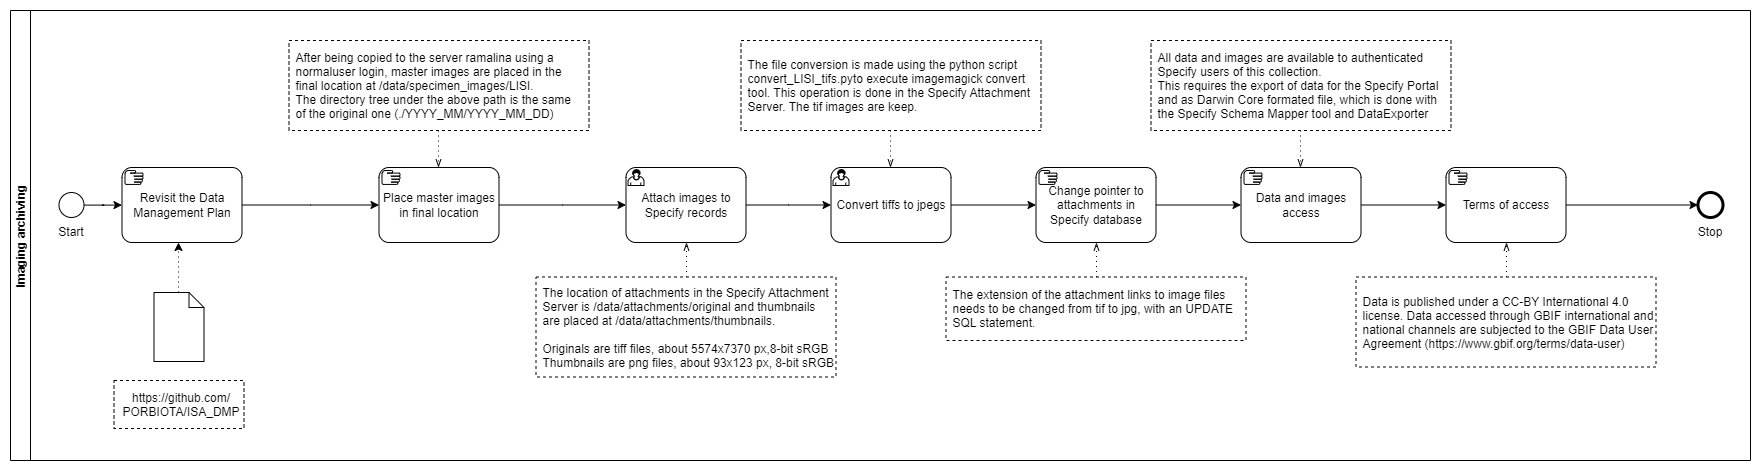
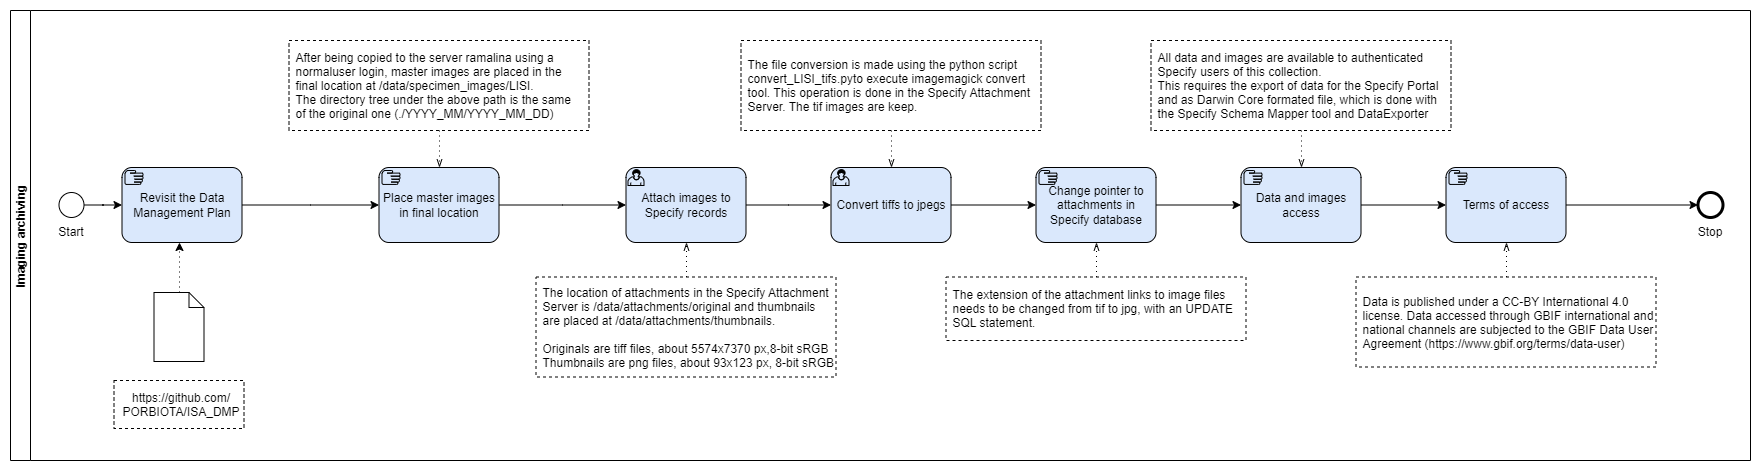
Update LISI workflow images

diff --git a/HerbariumSheets/LISIULisboa.md b/HerbariumSheets/LISIULisboa.md
@@ -36,46 +36,44 @@ The presented diagrams is composed of six steps:
 
 The detailed description of the workflow is available [here](https://github.com/PORBIOTA/ISA_DMP/blob/main/LISI_DigitizationWorkflow.pdf).
 
-[TODO]
-Add image overview of the Digitisation workflow
 
 **Pre-Digitization Curation**
 
 The ‘Pre-digitization Curation’ step involves tasks that occur prior to databasing or imaging, such as checking the cleaning and maintenance state of the material; placing the specimen Data Matrix barcodes; and transporting the specimens to the digitization station.
 
-![Pre-Digitization Curation workflow](/images/HerbariumSheets/LISI/LISI_Pre-digitization_curation_tasks.png?raw=true)
+[![Pre-Digitization Curation workflow](/images/HerbariumSheets/LISI/LISI_Pre-digitization_curation_tasks.png?raw=true)](/images/HerbariumSheets/LISI/LISI_Pre-digitization_curation_tasks.png?raw=true)
 
 **Digital Imaging Preparation**
 
 The Digital Imaging preparation is part of the ‘Digital Image Workflow’ and involves tasks destined to initiate and set up the imaging station, preparing it for sequential imaging of herbarium flat sheets.
 
-![Digital Imaging Preparation](/images/HerbariumSheets/LISI/LISI_Digital_imaging_tasks.png?raw=true)
+[![Digital Imaging Preparation](/images/HerbariumSheets/LISI/LISI_Digital_imaging_tasks.png?raw=true)](/images/HerbariumSheets/LISI/LISI_Digital_imaging_tasks.png?raw=true)
 
 
 **Imaging Capture**
 
 The ‘Image Capture workflow’ is subsequent to ‘Digital Imaging preparation’ workflow and is an ordered set of steps through which a specimen sheet is removed from an enclosing folder, imaged, returned to the original folder for refiling, and the resulting image examined for targeted quality. Specimens should also be checked for damage before and after imaging.
 
-![Imaging Capture](/images/HerbariumSheets/LISI/LISI_Imaging_capture_tasks.png?raw=true)
+[![Imaging Capture](/images/HerbariumSheets/LISI/LISI_Imaging_capture_tasks.png?raw=true)](/images/HerbariumSheets/LISI/LISI_Imaging_capture_tasks.png?raw=true)
 
 
 **Imaging Processing**
 
 The Image Processing step involves completing image metadata with additional information not included at the capture and copying image files to a file server.
 
-![Imaging Processing](/images/HerbariumSheets/LISI/LISI_Imaging_processing_tasks.png?raw=true)
+[![Imaging Processing](/images/HerbariumSheets/LISI/LISI_Imaging_processing_tasks.png?raw=true)](/images/HerbariumSheets/LISI/LISI_Imaging_processing_tasks.png?raw=true)
 
 **Imaging Archiving**
 
 The Imaging Archiving steps serve to place files in the final archiving location, and to include them to the collection management system (CMS, Specify 6) as an attach. The format of the attached files is jpeg, to ensure usability in local and web applications. The original tiff images are stored locally and backed up to a cloud infrastructure service.
 
-![Imaging Archiving](/images/HerbariumSheets/LISI/LISI_Imaging_archiving_tasks.png?raw=true)
+[![Imaging Archiving](/images/HerbariumSheets/LISI/LISI_Imaging_archiving_tasks.png?raw=true)](/images/HerbariumSheets/LISI/LISI_Imaging_archiving_tasks.png?raw=true)
 
 **Post-digitization Curation**
 
 A quality control assessment is regularly performed at the CMS level, on a random sample of the new items added, to check for specimen data and images. Procedures follow recommendations by Champman (2005).
 
-![Post-digitization Curation](/images/HerbariumSheets/LISI/LISI_Post-digitization_curation_tasks.png?raw=true)
+[![Post-digitization Curation](/images/HerbariumSheets/LISI/LISI_Post-digitization_curation_tasks.png?raw=true)](/images/HerbariumSheets/LISI/LISI_Post-digitization_curation_tasks.png?raw=true)
 
 
 
@@ -117,44 +115,44 @@ This work is built upon the working practices of the RBGE staff.
 
 Bandi, Shekar, Mallikarjun Angadi, and J Shivarama. Best Practices in Digitisation: Planning and Workflow Processes, n.d., 8.
 
-Basic Digitization Terminology (D1.b), Digital Collections. Accessed 22 January 2019. http://ulib.hamilton.edu/basic-digitization-terminology-d1b#general_digitization_terminology.
+Basic Digitization Terminology (D1.b), Digital Collections. Accessed 22 January 2019. [http://ulib.hamilton.edu/basic-digitization-terminology-d1b#general_digitization_terminology](http://ulib.hamilton.edu/basic-digitization-terminology-d1b#general_digitization_terminology).
 
-Chapman AD (2005) Principles of Data Quality. Global Biodiversity Information Facility. https://doi.org/10.15468/doc.jrgg-a190
+Chapman AD (2005) Principles of Data Quality. Global Biodiversity Information Facility. [https://doi.org/10.15468/doc.jrgg-a190](https://doi.org/10.15468/doc.jrgg-a190).
 
-Creating Archival Master Files, Digital Collections. Accessed 22 January 2019. http://ulib.hamilton.edu/creating-archival-master-files.
+Creating Archival Master Files, Digital Collections. Accessed 22 January 2019. [http://ulib.hamilton.edu/creating-archival-master-files](http://ulib.hamilton.edu/creating-archival-master-files).
 
-Creating Capture Files, Digital Collections. Accessed 22 January 2019. http://ulib.hamilton.edu/creating-capture-files.
+Creating Capture Files, Digital Collections. Accessed 22 January 2019. [http://ulib.hamilton.edu/creating-capture-files](http://ulib.hamilton.edu/creating-capture-files).
 
-Digital Projects Workflow, Digital Collections. Accessed 22 January 2019. http://ulib.hamilton.edu/digital-projects-workflow.
+Digital Projects Workflow, Digital Collections. Accessed 22 January 2019. [http://ulib.hamilton.edu/digital-projects-workflow](http://ulib.hamilton.edu/digital-projects-workflow).
 
-File Naming, Digital Collections. Accessed 22 January 2019. http://ulib.hamilton.edu/file-naming.
+File Naming, Digital Collections. Accessed 22 January 2019. [http://ulib.hamilton.edu/file-naming](http://ulib.hamilton.edu/file-naming]).
 
-Frazier, Cristopher K., John Wall, and Sharon Grant. Initiating a Collection Digitisation Project, Version 1.0. Copenhagen: Global Biodiversity Information Facility, 2008. https://www.gbif.org/document/80574.
+Frazier, Cristopher K., John Wall, and Sharon Grant. Initiating a Collection Digitisation Project, Version 1.0. Copenhagen: Global Biodiversity Information Facility, 2008. [https://www.gbif.org/document/80574](https://www.gbif.org/document/80574]).
 
-Global Plants Initiative (GPI), Kew. Accessed 21 January 2019. https://www.kew.org/science/projects/global-plants-initiative-gpi.
+Global Plants Initiative (GPI), Kew. Accessed 21 January 2019. [https://www.kew.org/science/projects/global-plants-initiative-gpi](https://www.kew.org/science/projects/global-plants-initiative-gpi).
 
 iDigBio. IDigBio Image File Format Requirements and Recommendations, 2014.
 
-iDigBio Wiki. IDigBio Wiki- Specimen Barcode and Labeling Survey Results. Accessed 21 January 2019. https://www.idigbio.org/wiki/index.php/Specimen_Barcode_and_Labeling_Survey_Results.
+iDigBio Wiki. IDigBio Wiki- Specimen Barcode and Labeling Survey Results. Accessed 21 January 2019. [https://www.idigbio.org/wiki/index.php/Specimen_Barcode_and_Labeling_Survey_Results](https://www.idigbio.org/wiki/index.php/Specimen_Barcode_and_Labeling_Survey_Results).
 
-iDigBio Workflows. Digitization Workflows for Flat Sheets and Packets: IDigBioWorkflows/FlatSheetsDigitizationWorkflows, 2019. https://github.com/iDigBioWorkflows/FlatSheetsDigitizationWorkflows.
+iDigBio Workflows. Digitization Workflows for Flat Sheets and Packets: IDigBioWorkflows/FlatSheetsDigitizationWorkflows, 2019. [https://github.com/iDigBioWorkflows/FlatSheetsDigitizationWorkflows](https://github.com/iDigBioWorkflows/FlatSheetsDigitizationWorkflows).
 
-Nelson, Gil, Deborah Paul, Greg Riccardi, and Austin Mast. Five Task Clusters That Enable Efficient and Effective Digitization of Biological Collections. ZooKeys 209 (20 July 2012): 19–45. https://doi.org/10.3897/zookeys.209.3135.
+Nelson, Gil, Deborah Paul, Greg Riccardi, and Austin Mast. Five Task Clusters That Enable Efficient and Effective Digitization of Biological Collections. ZooKeys 209 (20 July 2012): 19–45. [https://doi.org/10.3897/zookeys.209.3135](https://doi.org/10.3897/zookeys.209.3135).
 
-Nelson, Gil, Patrick Sweeney, Lisa E. Wallace, Richard K. Rabeler, Dorothy Allard, Herrick Brown, J. Richard Carter, et al. Digitization Workflows for Flat Sheets and Packets of Plants, Algae, and Fungi. Applications in Plant Sciences v.3, nº. 9 (10 September 2015). https://doi.org/10.3732/apps.1500065.
+Nelson, Gil, Patrick Sweeney, Lisa E. Wallace, Richard K. Rabeler, Dorothy Allard, Herrick Brown, J. Richard Carter, et al. Digitization Workflows for Flat Sheets and Packets of Plants, Algae, and Fungi. Applications in Plant Sciences v.3, nº. 9 (10 September 2015). [https://doi.org/10.3732/apps.1500065](https://doi.org/10.3732/apps.1500065).
 
 Paul, Deborah, Katja Seltmann, Katja Seltmann, and Katja Seltmann. Biological Collections Data: Best Practices and Trends for Standards, Digitization, and Biodiversity Informatics Literacy for Research Use of Collections Data, 2016.
 
-Revealing the Treasures of Kew's Herbarium to a Digital World | Kew. Accessed 21 January 2019. https://www.kew.org/blogs/kew-science/revealing-the-treasures-of-kew%E2%80%99s-herbarium-to-a-digital-world.
+Revealing the Treasures of Kew's Herbarium to a Digital World | Kew. Accessed 21 January 2019. [https://www.kew.org/blogs/kew-science/revealing-the-treasures-of-kew%E2%80%99s-herbarium-to-a-digital-world](https://www.kew.org/blogs/kew-science/revealing-the-treasures-of-kew%E2%80%99s-herbarium-to-a-digital-world).
 Schmidt, Larry. Digitization of Herbarium Specimens, a Collaborative Project, 2007, 6.
 
 Schmidt, Lawrence. Digitization of Herbarium Specimens, a Collaborative Process, 2007, 7.
 
 Thomas, Hugh. EXIFutils Field Reference Guide, n.d., 178.
 
-Tulig, Melissa, Nicole Tarnowsky, Michael Bevans, Anthony Kirchgessner, and Barbara Thiers. Increasing the Efficiency of Digitization Workflows for Herbarium Specimens. ZooKeys 209 (20 July 2012): 103–13. https://doi.org/10.3897/zookeys.209.3125.
+Tulig, Melissa, Nicole Tarnowsky, Michael Bevans, Anthony Kirchgessner, and Barbara Thiers. Increasing the Efficiency of Digitization Workflows for Herbarium Specimens. ZooKeys 209 (20 July 2012): 103–13. [https://doi.org/10.3897/zookeys.209.3125](https://doi.org/10.3897/zookeys.209.3125).
 
-iDigBio. Workflow Modules and Task Lists. Accessed 22 January 2019. https://www.idigbio.org/content/workflow-modules-and-task-lists.
+iDigBio. Workflow Modules and Task Lists. Accessed 22 January 2019. [https://www.idigbio.org/content/workflow-modules-and-task-lists](https://www.idigbio.org/content/workflow-modules-and-task-lists).
 
 
 ## Licence
